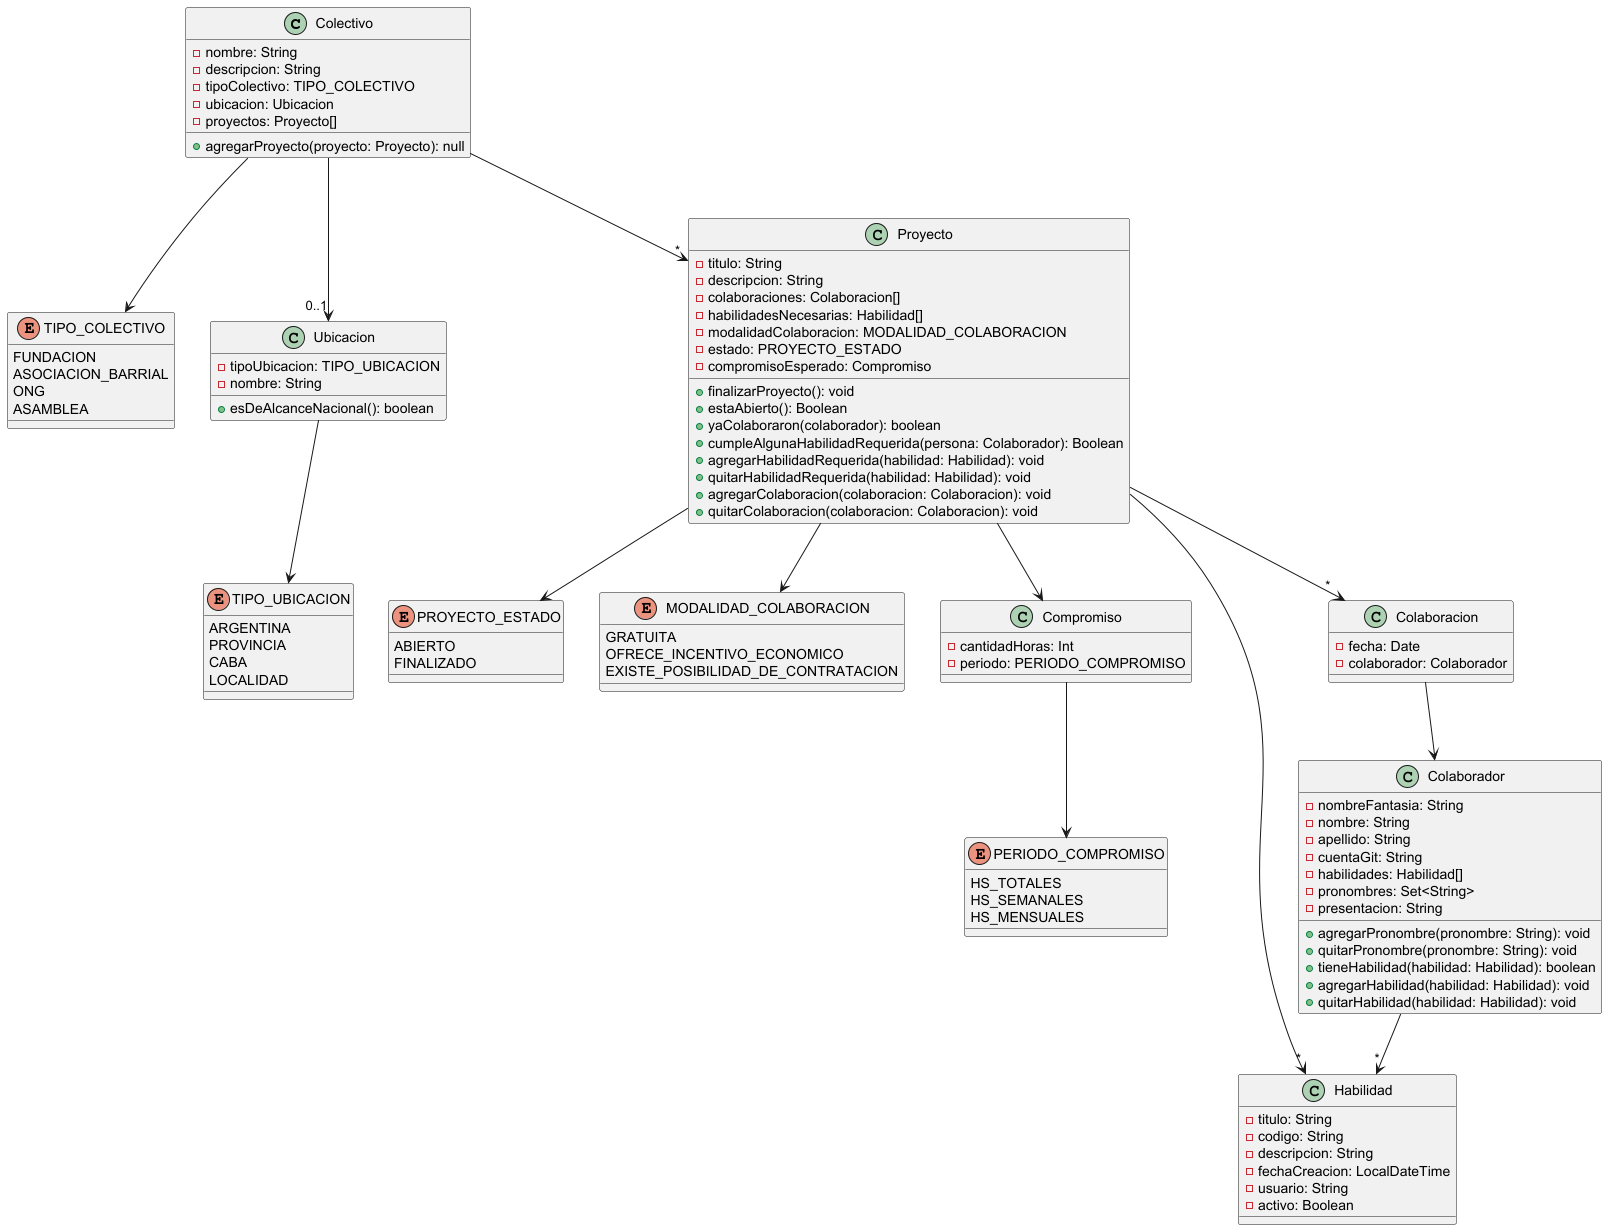
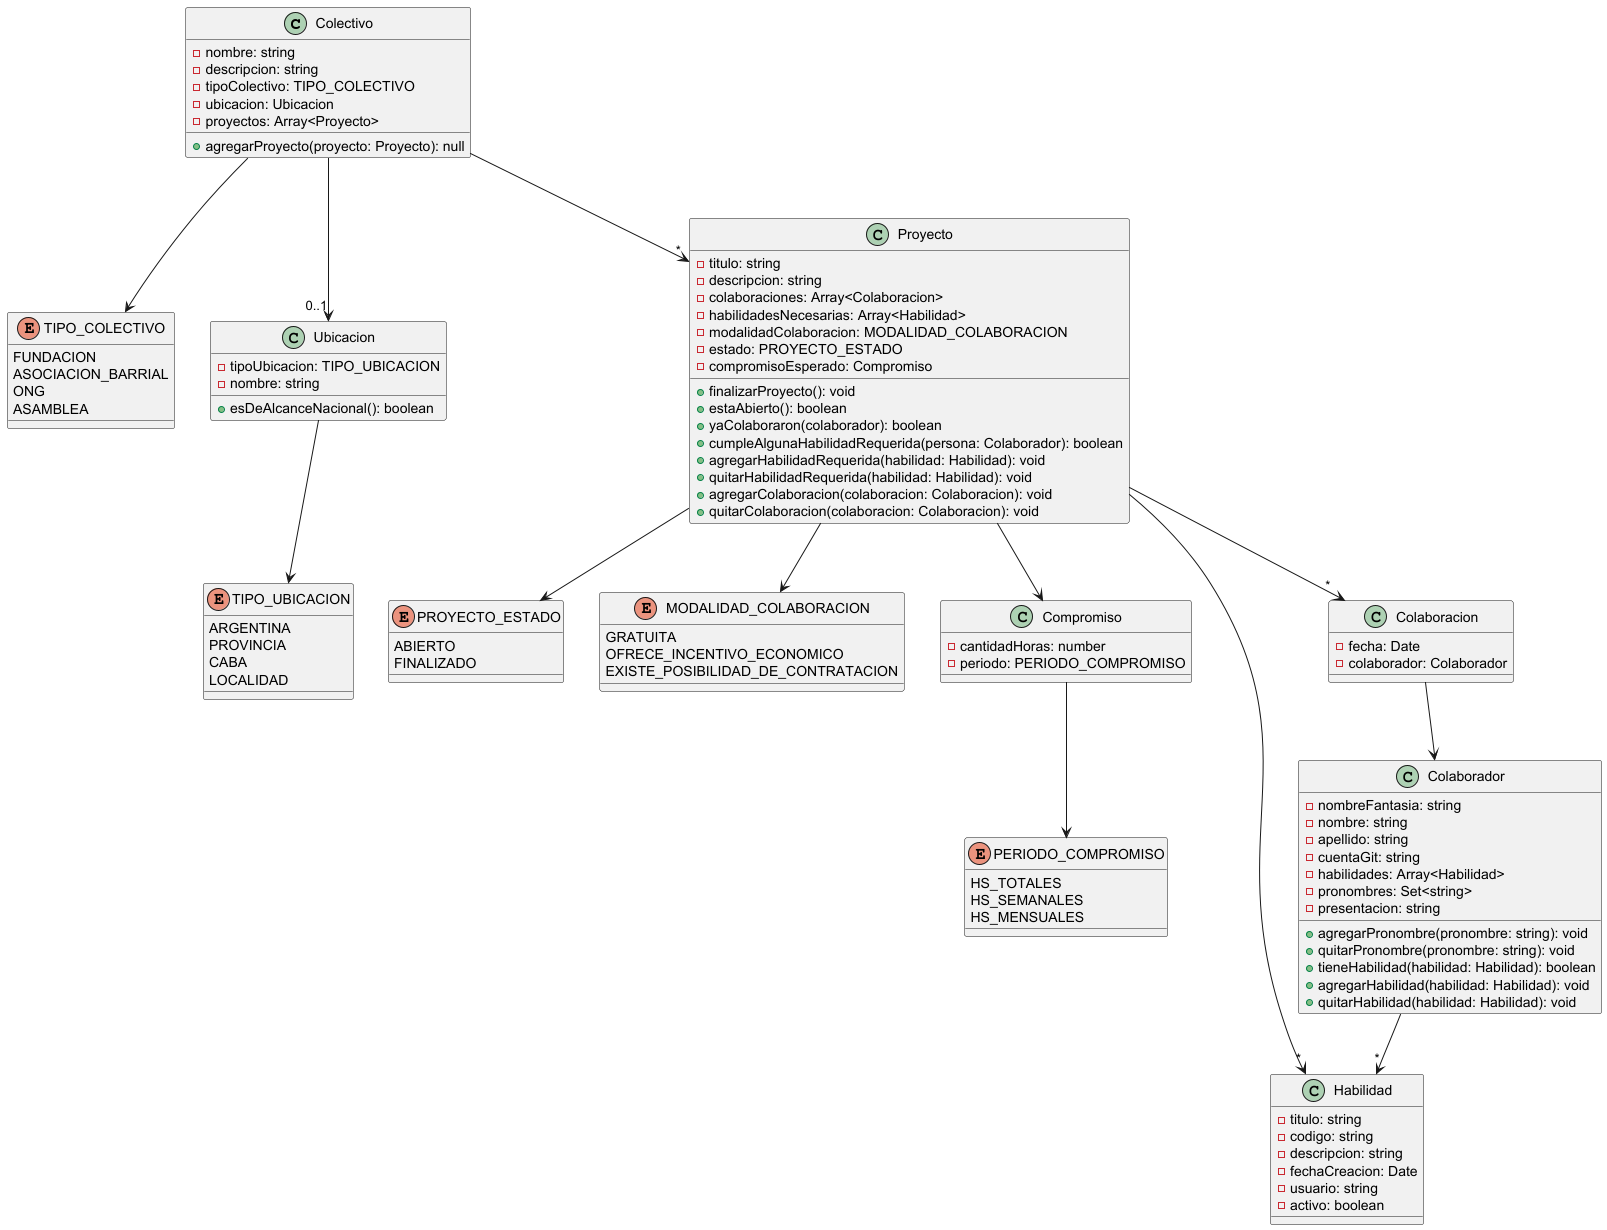
Correcciones y mejoras previas a la entrega 1

diff --git a/packages/backend/src/controllers/ColaboradorController.js b/packages/backend/src/controllers/ColaboradorController.js
@@ -2,7 +2,7 @@ import { BaseController } from "./BaseController.js";
 import { colaboradorService, colaboracionService } from "../services/index.js";
 import { actualizarColaboradorSchema, crearColaboradorSchema } from "../schemas/colaboradorSchema.js";
 import { agregarHabilidadSchema } from "../schemas/proyectoSchema.js";
-import { serializarColaborador } from "../utils/serializadores.js";
+import { serializar } from "../utils/serializadores.js";
 
 export class ColaboradorController extends BaseController {
   constructor(servicioColaborador = colaboradorService, servicioColaboracion = colaboracionService) {
@@ -20,7 +20,7 @@ export class ColaboradorController extends BaseController {
 
     try {
       const colaborador = this.colaboradorService.crear(resultado.data);
-      return res.status(201).json({ status: "success", data: serializarColaborador(colaborador) });
+      return res.status(201).json({ status: "success", data: serializar(colaborador) });
     } catch (error) {
       return this.manejarError(res, error);
     }
@@ -32,7 +32,7 @@ export class ColaboradorController extends BaseController {
       const pagina = this.colaboradorService.listar(paginacion);
       return this.responderPaginado(res, {
         ...pagina,
-        items: pagina.items.map(serializarColaborador),
+        items: pagina.items.map(serializar),
       });
     } catch (error) {
       return this.manejarError(res, error);
@@ -42,7 +42,7 @@ export class ColaboradorController extends BaseController {
   obtenerPorId = (req, res) => {
     try {
       const colaborador = this.colaboradorService.buscarPorId(req.params.id);
-      return res.status(200).json({ status: "success", data: serializarColaborador(colaborador) });
+      return res.status(200).json({ status: "success", data: serializar(colaborador) });
     } catch (error) {
       return this.manejarError(res, error);
     }
@@ -57,7 +57,7 @@ export class ColaboradorController extends BaseController {
 
     try {
       const colaborador = this.colaboradorService.actualizar(req.params.id, resultado.data);
-      return res.status(200).json({ status: "success", data: serializarColaborador(colaborador) });
+      return res.status(200).json({ status: "success", data: serializar(colaborador) });
     } catch (error) {
       return this.manejarError(res, error);
     }
@@ -75,7 +75,7 @@ export class ColaboradorController extends BaseController {
         req.params.id,
         resultado.data.codigoHabilidad,
       );
-      return res.status(200).json({ status: "success", data: serializarColaborador(colaborador) });
+      return res.status(200).json({ status: "success", data: serializar(colaborador) });
     } catch (error) {
       return this.manejarError(res, error);
     }
@@ -87,7 +87,7 @@ export class ColaboradorController extends BaseController {
         req.params.id,
         req.params.codigoHabilidad,
       );
-      return res.status(200).json({ status: "success", data: serializarColaborador(colaborador) });
+      return res.status(200).json({ status: "success", data: serializar(colaborador) });
     } catch (error) {
       return this.manejarError(res, error);
     }
@@ -98,10 +98,7 @@ export class ColaboradorController extends BaseController {
       const colaboraciones = this.colaboracionService.listarPorColaborador(req.params.id);
       const data = colaboraciones.map(({ proyectoId, colaboracion }) => ({
         proyectoId,
-        colaboracion: {
-          ...colaboracion,
-          colaborador: serializarColaborador(colaboracion.colaborador),
-        },
+        colaboracion: serializar(colaboracion),
       }));
       return res.status(200).json({ status: "success", data });
     } catch (error) {

diff --git a/packages/backend/src/controllers/ProyectoController.js b/packages/backend/src/controllers/ProyectoController.js
@@ -6,7 +6,7 @@ import {
   anotarColaboradorSchema,
   cambiarEstadoProyectoSchema,
 } from "../schemas/proyectoSchema.js";
-import { serializarColaborador } from "../utils/serializadores.js";
+import { serializar } from "../utils/serializadores.js";
 
 export class ProyectoController extends BaseController {
   constructor(servicioProyecto = proyectoService, servicioColaboracion = colaboracionService) {
@@ -106,7 +106,7 @@ export class ProyectoController extends BaseController {
       });
       return res.status(201).json({
         status: "success",
-        data: { ...colaboracion, colaborador: serializarColaborador(colaboracion.colaborador) },
+        data: serializar(colaboracion),
       });
     } catch (error) {
       return this.manejarError(res, error);
@@ -116,10 +116,7 @@ export class ProyectoController extends BaseController {
   listarColaboraciones = (req, res) => {
     try {
       const colaboraciones = this.colaboracionService.listarPorProyecto(req.params.id);
-      const data = colaboraciones.map((colaboracion) => ({
-        ...colaboracion,
-        colaborador: serializarColaborador(colaboracion.colaborador),
-      }));
+      const data = colaboraciones.map((colaboracion) => serializar(colaboracion));
       return res.status(200).json({ status: "success", data });
     } catch (error) {
       return this.manejarError(res, error);

diff --git a/packages/backend/src/services/HabilidadService.js b/packages/backend/src/services/HabilidadService.js
@@ -1,5 +1,6 @@
 import { DomainError } from "../errors/DomainError.js";
 import { ConflictError } from "../errors/ConflictError.js";
+import { NotFoundError } from "../errors/NotFoundError.js";
 import { Habilidad, normalizarASnakeCase } from "../domain/Habilidad.js";
 import { tieneContenido } from "../utils/validaciones.js";
 import { armarPaginado } from "../utils/paginacion.js";
@@ -44,7 +45,7 @@ export class HabilidadService {
     return codigos.map((codigo) => {
       const habilidad = this.habilidadRepository.buscarPorId(codigo);
       if (!habilidad) {
-        throw new DomainError(`No existe una habilidad con el código "${codigo}"`);
+        throw new NotFoundError(`No existe una habilidad con el código "${codigo}"`);
       }
       if (!habilidad.activo) {
         throw new DomainError(`La habilidad "${codigo}" está dada de baja`);

diff --git a/packages/backend/src/app.js b/packages/backend/src/app.js
@@ -10,17 +10,22 @@ app.use(router);
 
 // Cuando se vea middleware se lo implementa ahi.
 app.use((req, res) => {
-  res.status(404).json({ error: "Recurso no encontrado" });
+  res.status(404).json({ status: "fail", message: "Recurso no encontrado" });
 });
 
 app.use((err, req, res, _next) => {
+  if (err instanceof SyntaxError && "body" in err) {
+    res.status(400).json({ status: "fail", message: "JSON malformado en el body" });
+    return;
+  }
+
   if (err instanceof AppError) {
-    res.status(err.status).json({ error: err.message });
+    res.status(err.status).json({ status: "fail", message: err.message });
     return;
   }
 
   console.error(err);
-  res.status(500).json({ error: "Error interno del servidor" });
+  res.status(500).json({ status: "error", message: "Error interno del servidor" });
 });
 
 export default app;

diff --git a/packages/backend/src/services/ColectivoService.js b/packages/backend/src/services/ColectivoService.js
@@ -2,8 +2,8 @@ import { Colectivo } from "../domain/Colectivo.js";
 import { Ubicacion, PROVINCIAS } from "../domain/Ubicacion.js";
 import { DomainError } from "../errors/DomainError.js";
 import { NotFoundError } from "../errors/NotFoundError.js";
-import { esTipoColectivoValido } from "../domain/enums/TipoColectivo.js";
-import { TIPO_UBICACION, esTipoUbicacionValido } from "../domain/enums/TipoUbicacion.js";
+import { esTipoColectivoValido } from "../domain/enums/TIPO_COLECTIVO.js";
+import { TIPO_UBICACION, esTipoUbicacionValido } from "../domain/enums/TIPO_UBICACION.js";
 import { tieneContenido } from "../utils/validaciones.js";
 import { armarPaginado } from "../utils/paginacion.js";
 

diff --git a/packages/backend/src/services/ProyectoService.js b/packages/backend/src/services/ProyectoService.js
@@ -3,11 +3,11 @@ import { Compromiso } from "../domain/Compromiso.js";
 import { DomainError } from "../errors/DomainError.js";
 import { NotFoundError } from "../errors/NotFoundError.js";
 import { ConflictError } from "../errors/ConflictError.js";
-import { esPeriodoCompromisoValido } from "../domain/enums/PeriodoCompromiso.js";
+import { esPeriodoCompromisoValido } from "../domain/enums/PERIODO_COMPROMISO.js";
 import {
   MODALIDAD_COLABORACION,
   esModalidadColaboracionValida,
-} from "../domain/enums/ModalidadColaboracion.js";
+} from "../domain/enums/MODALIDAD_COLABORACION.js";
 import { armarPaginado } from "../utils/paginacion.js";
 
 export class ProyectoService {

diff --git a/packages/backend/src/domain/Proyecto.js b/packages/backend/src/domain/Proyecto.js
@@ -1,6 +1,6 @@
 import { randomUUID } from "node:crypto";
-import { PROYECTO_ESTADO } from "./enums/ProyectoEstado.js";
-import { MODALIDAD_COLABORACION } from "./enums/ModalidadColaboracion.js";
+import { PROYECTO_ESTADO } from "./enums/PROYECTO_ESTADO.js";
+import { MODALIDAD_COLABORACION } from "./enums/MODALIDAD_COLABORACION.js";
 
 export class Proyecto {
   constructor({
@@ -56,6 +56,6 @@ export class Proyecto {
   }
 
   quitarColaboracion(colaboracion) {
-    this.colaboraciones = this.colaboraciones.filter((c) => !c.equals(colaboracion));
+    this.colaboraciones = this.colaboraciones.filter((c) => c !== colaboracion);
   }
 }

diff --git a/packages/backend/src/schemas/proyectoSchema.js b/packages/backend/src/schemas/proyectoSchema.js
@@ -1,6 +1,6 @@
 import { z } from "zod";
-import { PERIODO_COMPROMISO } from "../domain/enums/PeriodoCompromiso.js";
-import { MODALIDAD_COLABORACION } from "../domain/enums/ModalidadColaboracion.js";
+import { PERIODO_COMPROMISO } from "../domain/enums/PERIODO_COMPROMISO.js";
+import { MODALIDAD_COLABORACION } from "../domain/enums/MODALIDAD_COLABORACION.js";
 
 export const compromisoSchema = z
   .object({

diff --git a/packages/backend/src/schemas/colectivoSchema.js b/packages/backend/src/schemas/colectivoSchema.js
@@ -1,6 +1,6 @@
 import { z } from "zod";
-import { TIPO_COLECTIVO } from "../domain/enums/TipoColectivo.js";
-import { TIPO_UBICACION } from "../domain/enums/TipoUbicacion.js";
+import { TIPO_COLECTIVO } from "../domain/enums/TIPO_COLECTIVO.js";
+import { TIPO_UBICACION } from "../domain/enums/TIPO_UBICACION.js";
 
 export const ubicacionSchema = z
   .object({

diff --git a/packages/backend/src/utils/serializadores.js b/packages/backend/src/utils/serializadores.js
@@ -1,3 +1,5 @@
-export function serializarColaborador(colaborador) {
-  return { ...colaborador, pronombres: [...colaborador.pronombres] };
+const setsAArrays = (_clave, valor) => (valor instanceof Set ? [...valor] : valor);
+
+export function serializar(valor) {
+  return JSON.parse(JSON.stringify(valor, setsAArrays));
 }

diff --git a/packages/backend/index.js b/packages/backend/index.js
@@ -3,7 +3,7 @@ import app from "./src/app.js";
 import { cargarHabilidadesIniciales } from "./src/seed/habilidadesSeed.js";
 
 const port = process.env.SERVER_PORT || 8000;
-const host = 'localhost';
+const host = '0.0.0.0';
 
 cargarHabilidadesIniciales();
 

diff --git a/packages/backend/src/domain/Ubicacion.js b/packages/backend/src/domain/Ubicacion.js
@@ -1,4 +1,4 @@
-import { TIPO_UBICACION } from "./enums/TipoUbicacion.js";
+import { TIPO_UBICACION } from "./enums/TIPO_UBICACION.js";
 
 export const PROVINCIAS = Object.freeze([
   "Buenos Aires", "Catamarca", "Chaco", "Chubut", "Cordoba", "Corrientes",
